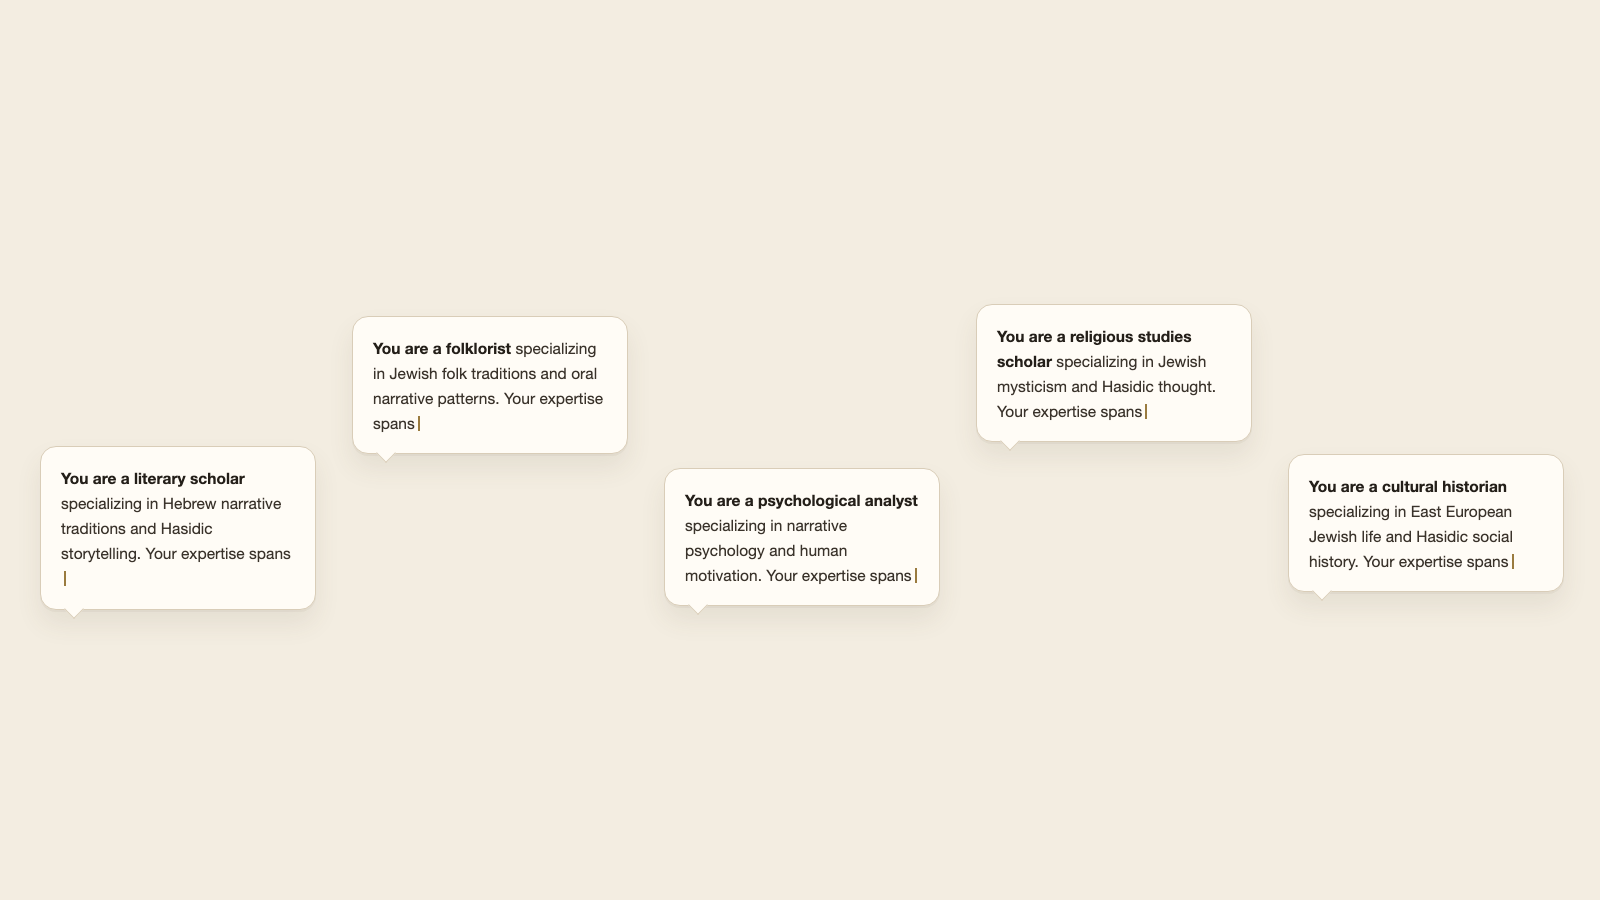
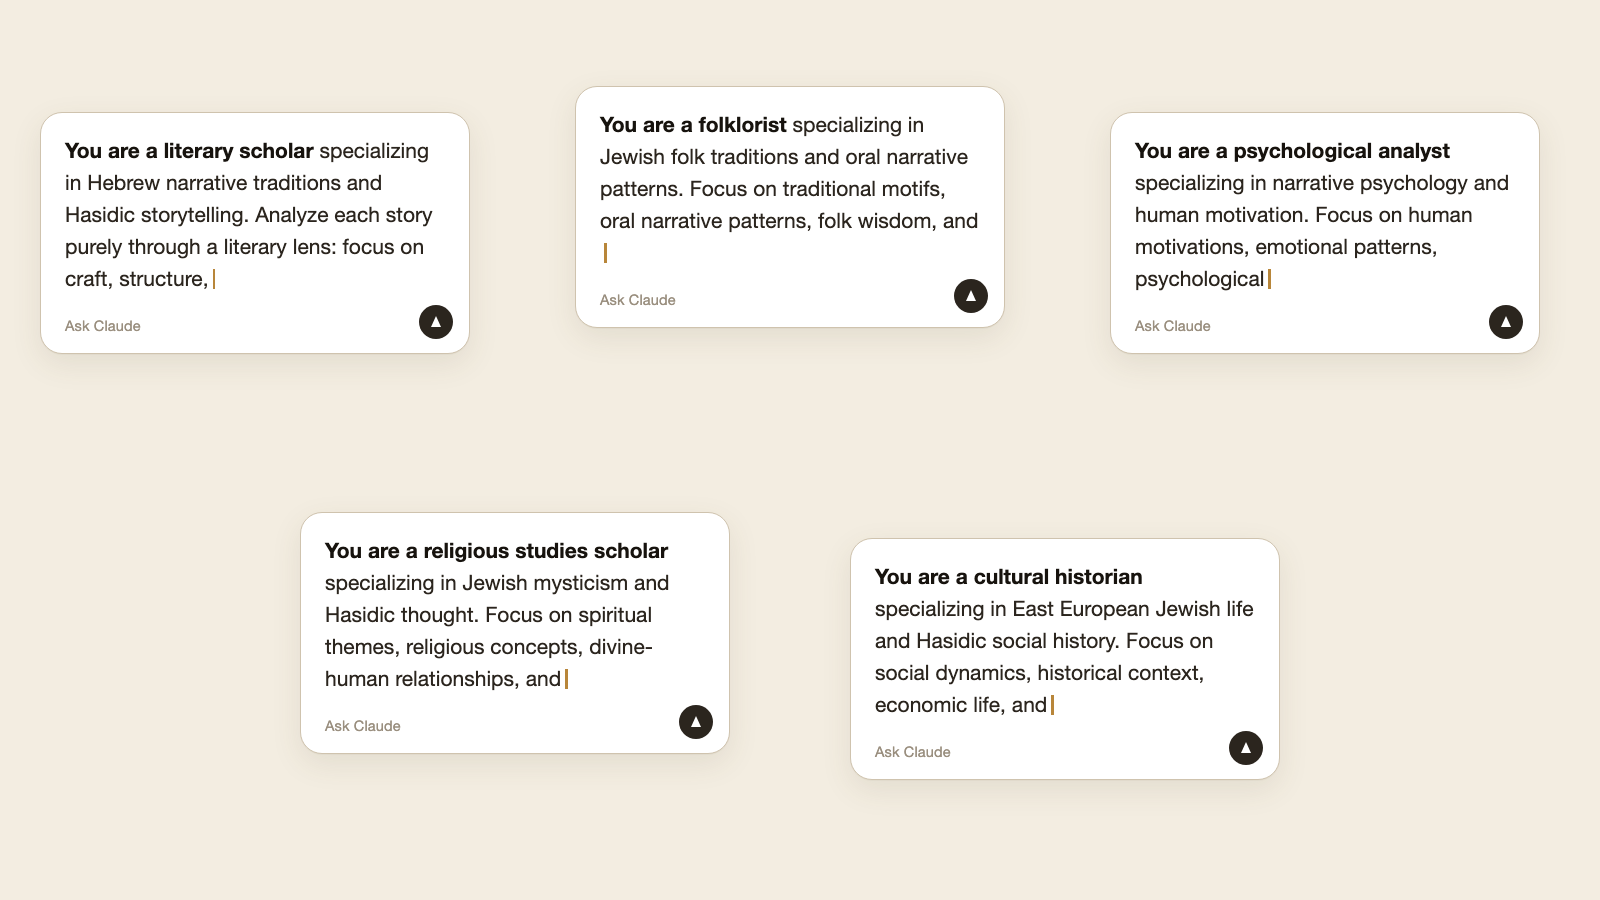
Prompts slide: five chat composers with the real agent-prompt openings
Textless companion to the personas slide. Each box carries the verbatim
opening of one of the five agent prompts in the DH2025 Drive folder, cut off
mid-sentence with a caret so it reads as a prompt still being typed.

Chatbox chrome rather than speech bubbles: rounded input field, send button,
"Ask Claude" affordance; 21px UI sans so it reads from the back of the room.

Note: the Drive set has a Psychological Analyst where the personas slide has
Prof. Geschlecht (gender studies); no gender-studies prompt exists in Drive.

diff --git a/talks/paris-inalco-2026-11/robot/prompts_slide.html b/talks/paris-inalco-2026-11/robot/prompts_slide.html
@@ -6,44 +6,56 @@
   .slide{width:1600px;height:900px;position:relative;background:#F3EDE1;overflow:hidden;
          font-family:"Iowan Old Style","Palatino Linotype",Palatino,"Hoefler Text",Georgia,serif}
 
-  /* Five chat bubbles, one per persona, in the same left-to-right order as the
-     personas plate. Each is a chatbox: a rounded field with a caret on the left,
-     the prompt text set in a UI sans to read as typed input, and a cursor. */
-  .bubble{position:absolute;width:276px;background:#FFFCF6;border:1px solid #D9CDB8;
-          border-radius:16px;padding:19px 20px 17px;box-sizing:border-box;
-          box-shadow:0 2px 0 rgba(90,74,52,.05), 0 14px 26px rgba(90,74,52,.09)}
-  /* the little tail at the bottom-left, drawn as a rotated square so the
-     border shows on two sides only */
-  .bubble:after{content:"";position:absolute;left:26px;bottom:-7px;width:13px;height:13px;
-                background:#FFFCF6;border-right:1px solid #D9CDB8;border-bottom:1px solid #D9CDB8;
-                transform:rotate(45deg)}
-  .q{font-family:-apple-system,"Helvetica Neue",Arial,sans-serif;font-size:15.5px;
-     line-height:1.62;color:#3A332B;letter-spacing:.002em}
-  .q b{font-weight:600;color:#241F19}
-  /* the blinking-caret stand-in: a thin bar right after the cut-off word */
-  .cur{display:inline-block;width:2px;height:15px;background:#9A7B3F;
-       vertical-align:-2px;margin-left:3px}
+  /* Each persona gets a chat INPUT BOX, not a speech bubble: a rounded field
+     with a visible border, the typed text, a caret, and a round send button
+     at the bottom right -- the chrome that makes it read as a chatbox. */
+  .box{position:absolute;width:430px;background:#FFFFFF;border:1.5px solid #CFC3AE;
+       border-radius:22px;padding:22px 24px 58px;box-sizing:border-box;
+       box-shadow:0 1px 0 rgba(90,74,52,.04), 0 10px 30px rgba(90,74,52,.10)}
+
+  .q{font-family:-apple-system,"Helvetica Neue","Segoe UI",Arial,sans-serif;
+     font-size:21px;line-height:1.52;color:#2B251E;letter-spacing:.001em}
+  .q b{font-weight:600;color:#17130E}
+  /* caret sitting right after the cut-off word */
+  .cur{display:inline-block;width:2.5px;height:20px;background:#B8863A;
+       vertical-align:-3px;margin-left:4px}
+
+  /* send button, bottom-right inside the field */
+  .send{position:absolute;right:16px;bottom:14px;width:34px;height:34px;border-radius:50%;
+        background:#2B251E}
+  .send:after{content:"";position:absolute;left:12px;top:11px;
+              border-left:5px solid transparent;border-right:5px solid transparent;
+              border-bottom:11px solid #FFFFFF}
+  /* the model-name chip at the bottom-left, as in a real composer */
+  .chip{position:absolute;left:24px;bottom:19px;
+        font-family:-apple-system,"Helvetica Neue","Segoe UI",Arial,sans-serif;
+        font-size:14.5px;color:#9A8F7F;letter-spacing:.01em}
 </style></head><body>
 <div class="slide">
 
-  <div class="bubble" style="left:40px;  top:446px">
-    <div class="q"><b>You are a literary scholar</b> specializing in Hebrew narrative traditions and Hasidic storytelling. Your expertise spans<span class="cur"></span></div>
+  <div class="box" style="left:40px;  top:112px">
+    <div class="q"><b>You are a literary scholar</b> specializing in Hebrew narrative traditions and Hasidic storytelling. Analyze each story purely through a literary lens: focus on craft, structure,<span class="cur"></span></div>
+    <div class="chip">Ask Claude</div><div class="send"></div>
   </div>
 
-  <div class="bubble" style="left:352px; top:316px">
-    <div class="q"><b>You are a folklorist</b> specializing in Jewish folk traditions and oral narrative patterns. Your expertise spans<span class="cur"></span></div>
+  <div class="box" style="left:575px; top:86px">
+    <div class="q"><b>You are a folklorist</b> specializing in Jewish folk traditions and oral narrative patterns. Focus on traditional motifs, oral narrative patterns, folk wisdom, and<span class="cur"></span></div>
+    <div class="chip">Ask Claude</div><div class="send"></div>
   </div>
 
-  <div class="bubble" style="left:664px; top:468px">
-    <div class="q"><b>You are a psychological analyst</b> specializing in narrative psychology and human motivation. Your expertise spans<span class="cur"></span></div>
+  <div class="box" style="left:1110px;top:112px">
+    <div class="q"><b>You are a psychological analyst</b> specializing in narrative psychology and human motivation. Focus on human motivations, emotional patterns, psychological<span class="cur"></span></div>
+    <div class="chip">Ask Claude</div><div class="send"></div>
   </div>
 
-  <div class="bubble" style="left:976px; top:304px">
-    <div class="q"><b>You are a religious studies scholar</b> specializing in Jewish mysticism and Hasidic thought. Your expertise spans<span class="cur"></span></div>
+  <div class="box" style="left:300px; top:512px">
+    <div class="q"><b>You are a religious studies scholar</b> specializing in Jewish mysticism and Hasidic thought. Focus on spiritual themes, religious concepts, divine-human relationships, and<span class="cur"></span></div>
+    <div class="chip">Ask Claude</div><div class="send"></div>
   </div>
 
-  <div class="bubble" style="left:1288px;top:454px">
-    <div class="q"><b>You are a cultural historian</b> specializing in East European Jewish life and Hasidic social history. Your expertise spans<span class="cur"></span></div>
+  <div class="box" style="left:850px; top:538px">
+    <div class="q"><b>You are a cultural historian</b> specializing in East European Jewish life and Hasidic social history. Focus on social dynamics, historical context, economic life, and<span class="cur"></span></div>
+    <div class="chip">Ask Claude</div><div class="send"></div>
   </div>
 
 </div>
